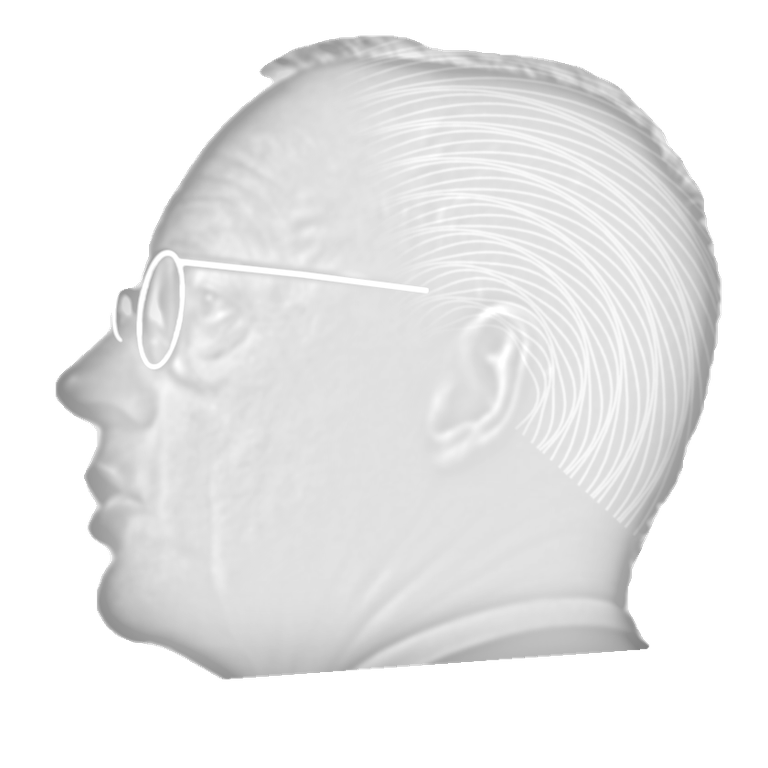
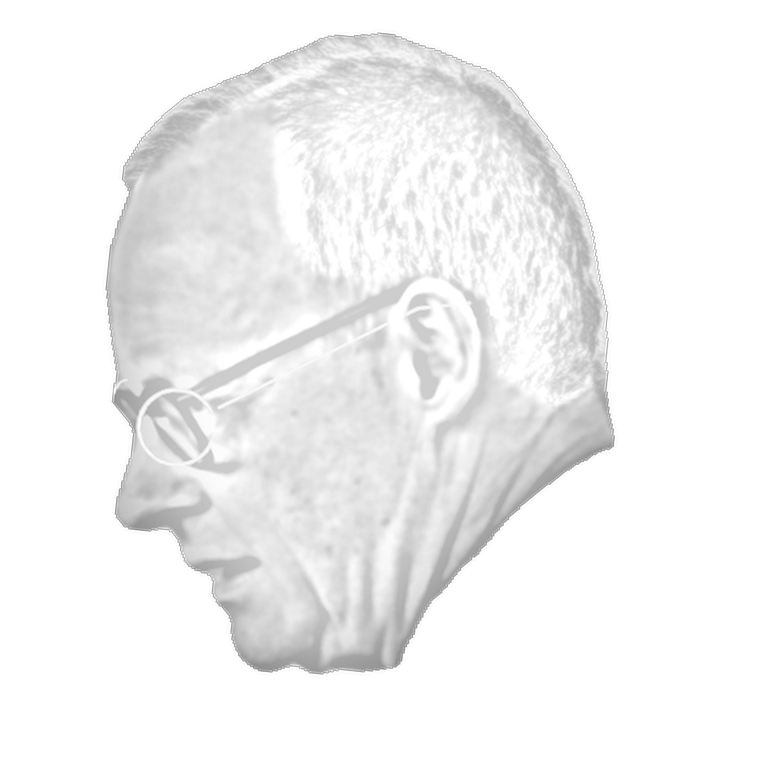
feat: recognisable hairline on the Kopf portrait
Rebuild the relief from the front-lit profile photo: traced receding
hairline with the front strip, short stubble texture, and a frost map
that darkens the hair against the polished bald head. Portrait is larger
in the core and stands more upright.

Changed region(s): [[0.0625, 0.0312, 0.9375, 0.9062], [0.3125, 0.3438, 0.3438, 0.375]]

diff --git a/app/lib/coin-face.ts b/app/lib/coin-face.ts
@@ -7,8 +7,10 @@ export type CoinFaceSpec = {
   side: string
   caption: string
   numeral: string
-  portrait?: CanvasImageSource
+  portrait?: CoinPortrait
 }
+
+export type CoinPortrait = { relief: CanvasImageSource, frost: CanvasImageSource }
 
 // Bimetal follows the 2-euro coin: silver ring, gold core, a big numeral as
 // the image. Gold and enamel are single-metal struck coins.
@@ -39,18 +41,23 @@ const FACE_SIZE = 1024
 const DISPLAY_FONT = '"Clash Display", sans-serif'
 const UI_FONT = '"General Sans", sans-serif'
 
-// Relief height map of the Kopf portrait: grey levels are height, alpha is the
-// silhouette. Generated offline from a cut-out profile photo.
-const PORTRAIT_URL = '/coin/kopf-relief.png'
-let portraitPromise: Promise<HTMLImageElement> | undefined
+// Kopf portrait, generated offline by scripts/coin-portrait from a cut-out
+// profile photo. Relief: grey = height, alpha = silhouette. Frost: grey =
+// hair texture, alpha = hair coverage, so hair reads darker than the scalp.
+let portraitPromise: Promise<CoinPortrait> | undefined
 
-export function loadCoinPortrait() {
-  portraitPromise ??= new Promise((resolve, reject) => {
+function loadImage(src: string) {
+  return new Promise<HTMLImageElement>((resolve, reject) => {
     const img = new Image()
     img.onload = () => resolve(img)
     img.onerror = reject
-    img.src = PORTRAIT_URL
+    img.src = src
   })
+}
+
+export function loadCoinPortrait() {
+  portraitPromise ??= Promise.all([loadImage('/coin/kopf-relief.png'), loadImage('/coin/kopf-frost.png')])
+    .then(([relief, frost]) => ({ relief, frost }))
   return portraitPromise
 }
 
@@ -305,9 +312,9 @@ function paintBimetalFace(spec: CoinFaceSpec, mode: PaintMode, inverse: boolean)
 // Portrait layout of the Kopf side, like the national side of a euro coin:
 // profile facing left, truncated at the neck, the name in the free space
 // behind the head.
-const PORTRAIT_BOX = { x: -352, y: -318, size: 600 }
+const PORTRAIT_BOX = { x: -368, y: -330, size: 690 }
 
-function paintPortrait(ctx: CanvasRenderingContext2D, mode: PaintMode, img: CanvasImageSource, core: { light: string, mid: string, dark: string, shade: string }, c: number) {
+function paintPortrait(ctx: CanvasRenderingContext2D, mode: PaintMode, { relief: img, frost }: CoinPortrait, core: { light: string, mid: string, dark: string, shade: string }, c: number) {
   const x = c + PORTRAIT_BOX.x
   const y = c + PORTRAIT_BOX.y
   const { size } = PORTRAIT_BOX
@@ -332,6 +339,7 @@ function paintPortrait(ctx: CanvasRenderingContext2D, mode: PaintMode, img: Canv
   g.addColorStop(1, core.mid)
   l.fillStyle = g
   l.fillRect(0, 0, FACE_SIZE, FACE_SIZE)
+  l.drawImage(frost, x, y, size, size)
   l.globalCompositeOperation = 'destination-in'
   l.drawImage(img, x, y, size, size)
 
@@ -346,8 +354,8 @@ function paintPortrait(ctx: CanvasRenderingContext2D, mode: PaintMode, img: Canv
 
 function portraitName(ctx: CanvasRenderingContext2D, raw: string, c: number) {
   const name = raw.trim().toUpperCase() || 'TEAM'
-  const cx = c + 252
-  const maxWidth = 150
+  const cx = c + 262
+  const maxWidth = 136
   const lines = name.includes(' ') ? splitInTwo(name) : [name]
   ctx.textAlign = 'center'
   ctx.textBaseline = 'alphabetic'

diff --git a/scripts/coin-portrait/relief.py b/scripts/coin-portrait/relief.py
@@ -2,80 +2,86 @@
 
 Usage:
   swift segment.swift photo.png mask.png
-  python3 relief.py photo.png mask.png ../../public/coin/kopf-relief.png
+  python3 relief.py photo.png mask.png out-dir
 
-Crop box, neck cut, glasses geometry and the hair region are measured on the
-original profile photo (1920x1080, facing left). A different photo needs new
-measurements. Output: grey levels are height, alpha is the silhouette.
+Writes kopf-relief.png (grey = height, alpha = silhouette) and kopf-frost.png
+(grey = hair texture, alpha = hair coverage) into out-dir. Hairline, glasses,
+neck cut and crop are measured on the 1000x1000 left-facing profile photo; a
+different photo needs new measurements. The hairline is the main recognition
+feature: a narrow front strip, a deep bald corner, short dense hair behind.
 """
 import math
 import sys
 
 from PIL import Image, ImageChops, ImageDraw, ImageFilter, ImageOps
 
-SS = 4  # supersampling for the vector glasses
-src = Image.open(sys.argv[1]).convert('L')
-mask = Image.open(sys.argv[2]).convert('L')
-box = (820, 50, 1660, 890)
-g = src.crop(box)
-m = mask.crop(box).point(lambda v: 255 if v > 128 else 0)
-W = g.size[0]
-cut = Image.new('L', g.size, 255)
-ImageDraw.Draw(cut).polygon([(0, 760), (W, 700), (W, W), (0, W)], fill=0)
-m = ImageChops.multiply(m, cut).filter(ImageFilter.MedianFilter(9))
+SS = 4
+rgb = Image.open(sys.argv[1]).convert('RGB')
+mask = Image.open(sys.argv[2]).convert('L').point(lambda v: 255 if v > 128 else 0)
+out_dir = sys.argv[3]
+lum = rgb.convert('L')
+W, H = rgb.size
 
-dome = m.filter(ImageFilter.GaussianBlur(40))
-dome = ImageOps.autocontrast(ImageChops.multiply(dome, m))
-smooth = g.filter(ImageFilter.GaussianBlur(2.4))
-low = g.filter(ImageFilter.GaussianBlur(12))
-detail = ImageOps.autocontrast(ImageChops.subtract(smooth, low, 1, 128), cutoff=1.5)
+# Silhouette: drop collar and suit near the neck, then cut like a coin bust.
+h, s, v = rgb.convert('HSV').split()
+collar = ImageChops.multiply(Image.eval(s, lambda x: 255 if x < 40 else 0), Image.eval(v, lambda x: 255 if x > 190 else 0))
+suit = Image.eval(h, lambda x: 255 if 135 < x < 190 else 0)
+lower = Image.new('L', rgb.size, 0)
+ld = ImageDraw.Draw(lower)
+ld.rectangle((520, 330, W, H), fill=255)
+ld.rectangle((560, 280, W, H), fill=255)
+body = ImageChops.subtract(mask, ImageChops.multiply(ImageChops.lighter(collar, suit), lower))
+cut = Image.new('L', rgb.size, 255)
+ImageDraw.Draw(cut).polygon([(330, 485), (700, 400), (W, 400), (W, H), (0, H), (0, 485)], fill=0)
+body = ImageChops.multiply(body, cut).filter(ImageFilter.MedianFilter(9))
+body = body.filter(ImageFilter.MinFilter(7)).filter(ImageFilter.MaxFilter(7))
 
-# Glasses as authored geometry, measured from the photo (crop coordinates).
-gl = Image.new('L', (W * SS, W * SS), 0)
-d = ImageDraw.Draw(gl)
-def ellipse(cx, cy, rx, ry, tilt, start=0, end=360, width=8):
-    pts = []
-    for i in range(0, 361):
-        a = math.radians(start + (end - start) * i / 360)
-        x, y = rx * math.cos(a), ry * math.sin(a)
-        t = math.radians(tilt)
-        pts.append(((cx + x * math.cos(t) - y * math.sin(t)) * SS, (cy + x * math.sin(t) + y * math.cos(t)) * SS))
-    d.line(pts, fill=255, width=width * SS, joint='curve')
-ellipse(176, 339, 22, 63, 8, width=8)             # near lens rim
-ellipse(138, 337, 13, 36, 6, 90, 270, width=6)     # far lens, left half visible
-d.line([(197 * SS, 286 * SS), (330 * SS, 300 * SS), (470 * SS, 318 * SS)], fill=255, width=9 * SS, joint='curve')  # temple arm
-gl = gl.resize((W, W), Image.LANCZOS).filter(ImageFilter.GaussianBlur(1.6))
-gl = ImageChops.multiply(gl, m)
+# Hair, traced on a 2x zoom of the head (zoom origin 340/30).
+Z = lambda pts: [(x / 2 + 340, y / 2 + 30) for x, y in pts]
+hair = Image.new('L', rgb.size, 0)
+hd = ImageDraw.Draw(hair)
+hd.polygon(Z([(30, 260), (60, 180), (120, 130), (215, 85), (300, 30), (300, 120), (225, 130), (140, 170), (85, 220), (60, 265)]), fill=255)
+hd.polygon(Z([(215, 95), (300, 30), (430, 30), (530, 80), (610, 170), (660, 290), (665, 440), (600, 470), (520, 430), (500, 335), (430, 322), (385, 335), (290, 335), (245, 280), (228, 200), (225, 125)]), fill=255)
+hair = ImageChops.multiply(hair, body).filter(ImageFilter.GaussianBlur(2))
 
-# Hair: authored region behind the hairline, around the ear, filled with
-# combed strokes the way coin engravers render hair.
-hair = Image.new('L', g.size, 0)
-ImageDraw.Draw(hair).polygon([(400, 0), (840, 0), (840, 640), (640, 640), (600, 560), (560, 510), (565, 360), (520, 330), (475, 345), (460, 280), (430, 160), (395, 60)], fill=255)
-hair = ImageChops.multiply(hair, m).filter(ImageFilter.GaussianBlur(22))
-strokes = Image.new('L', (W * SS, W * SS), 0)
-sd = ImageDraw.Draw(strokes)
-# Combed strands curve around the ear, like hair on a coin portrait.
-ex, ey = 515, 425
-for k, r in enumerate(range(70, 560, 8)):
-    pts = []
-    for step in range(0, 121):
-        a = math.radians(-150 + step * 1.6)
-        rr = r + 4 * math.sin(step / 7 + k * 1.3)
-        pts.append(((ex + rr * math.cos(a)) * SS, (ey + rr * math.sin(a)) * SS))
-    sd.line(pts, fill=255, width=3 * SS, joint='curve')
-strokes = strokes.resize((W, W), Image.LANCZOS).filter(ImageFilter.GaussianBlur(0.8))
-hair_relief = ImageChops.multiply(strokes, hair).point(lambda v: v * 0.17)
+# Volume and facial detail.
+dome = ImageOps.autocontrast(ImageChops.multiply(body.filter(ImageFilter.GaussianBlur(26)), body))
+smooth = lum.filter(ImageFilter.GaussianBlur(1.4))
+detail = ImageOps.autocontrast(ImageChops.subtract(smooth, lum.filter(ImageFilter.GaussianBlur(8)), 1, 128), cutoff=1.5)
+# Hair keeps its real stubble texture; skin detail is softened further.
+stubble = ImageOps.autocontrast(ImageChops.subtract(lum.filter(ImageFilter.GaussianBlur(0.6)), lum.filter(ImageFilter.GaussianBlur(2)), 1, 128), cutoff=2)
+height = Image.blend(dome, detail, 0.34)
+height = ImageChops.add(height, hair.point(lambda x: x * 26 // 255))
+hair_tex = ImageChops.multiply(stubble, hair)
+height = Image.composite(Image.blend(height, ImageChops.add(height, hair_tex.point(lambda x: x // 10)), 1.0), height, hair)
 
-height = Image.blend(dome, detail, 0.4)
-height = ImageChops.add(height, hair_relief)
-# Lenses sit flat over the eye: soften detail inside the near lens a little.
-height = ImageChops.lighter(height, gl.point(lambda v: min(255, v * 1.15)))
-height = ImageChops.multiply(height, m)
-# Lift the relief above the coin field: the silhouette edge starts at 110 so
-# the portrait never reads as sunken.
-lifted = ImageChops.multiply(height.point(lambda v: 110 + v * 145 // 255), m)
-Image.merge('LA', (lifted, m)).resize((768, 768), Image.LANCZOS).save(sys.argv[3])
-prev = height.filter(ImageFilter.GaussianBlur(1.0)).filter(ImageFilter.EMBOSS)
-gold = ImageOps.colorize(prev, (90, 60, 15), (250, 225, 160))
-bg = Image.new('RGB', g.size, (200, 165, 90)); bg.paste(gold, (0, 0), m)
-bg.resize((560, 560)).save('preview.png')  # quick emboss check
+# Glasses as raised vector strokes.
+gl = Image.new('L', (W * SS, H * SS), 0)
+gd = ImageDraw.Draw(gl)
+def ellipse(cx, cy, rx, ry, start=0, end=360, width=4):
+    pts = [((cx + rx * math.cos(math.radians(a))) * SS, (cy + ry * math.sin(math.radians(a))) * SS) for a in range(start, end + 1, 2)]
+    gd.line(pts, fill=255, width=width * SS, joint='curve')
+ellipse(413, 300, 23, 23, width=4)
+ellipse(381, 291, 10, 17, 90, 270, width=3)
+gd.line([(436 * SS, 286 * SS), (552 * SS, 212 * SS), (585 * SS, 205 * SS)], fill=255, width=4 * SS, joint='curve')
+gl = gl.resize((W, H), Image.LANCZOS).filter(ImageFilter.GaussianBlur(0.8))
+height = ImageChops.multiply(ImageChops.lighter(height, ImageChops.multiply(gl, body)), body)
+lifted = ImageChops.multiply(height.point(lambda x: 110 + x * 145 // 255), body)
+
+# Frost map: hair reads darker and rougher than the polished bald head.
+frost_tex = ImageOps.autocontrast(lum.filter(ImageFilter.GaussianBlur(1.2)), cutoff=2).point(lambda x: 165 + x * 70 // 255)
+
+# Crop around the head, stand it a little more upright, scale to the asset.
+box = (300, 25, 770, 495)
+def finish(img, mode):
+    img = img.crop(box).resize((1100, 1100), Image.LANCZOS)
+    return img.rotate(-6, resample=Image.BICUBIC, center=(560, 520)).resize((768, 768), Image.LANCZOS)
+alpha = finish(body, 'L')
+Image.merge('LA', (finish(lifted, 'L'), alpha)).save(f'{out_dir}/kopf-relief.png')
+Image.merge('LA', (finish(frost_tex, 'L'), finish(hair, 'L'))).save(f'{out_dir}/kopf-frost.png')
+
+prev_h = finish(lifted, 'L').filter(ImageFilter.EMBOSS)
+gold = ImageOps.colorize(prev_h, (90, 60, 15), (250, 225, 160))
+bg = Image.new('RGB', (768, 768), (200, 165, 90)); bg.paste(gold, (0, 0), alpha)
+dark = Image.new('RGB', (768, 768), (120, 90, 40)); bg.paste(dark, (0, 0), finish(hair, 'L').point(lambda x: x * 2 // 5))
+bg.resize((560, 560)).save(f'{out_dir}/preview.png')
